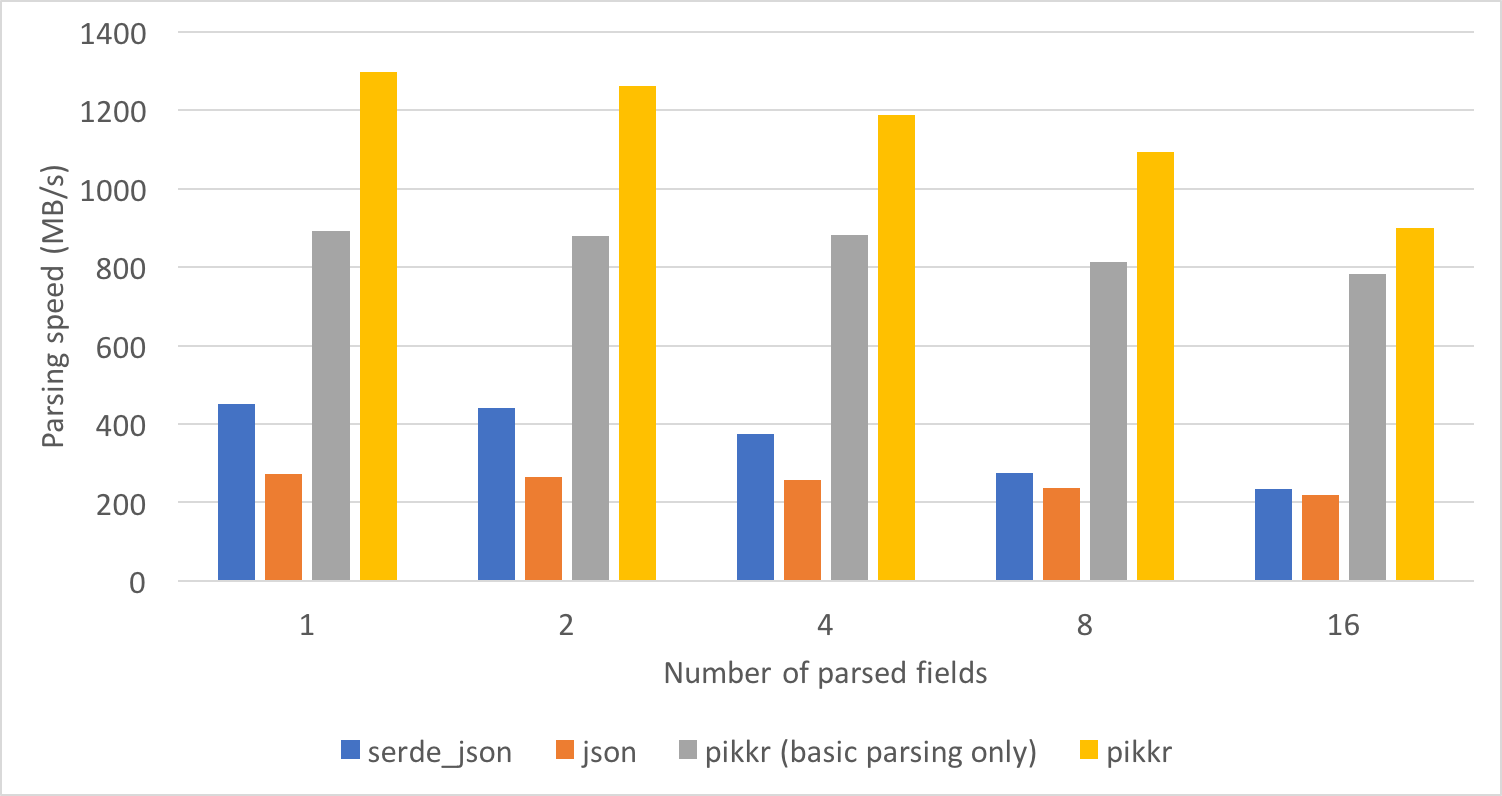
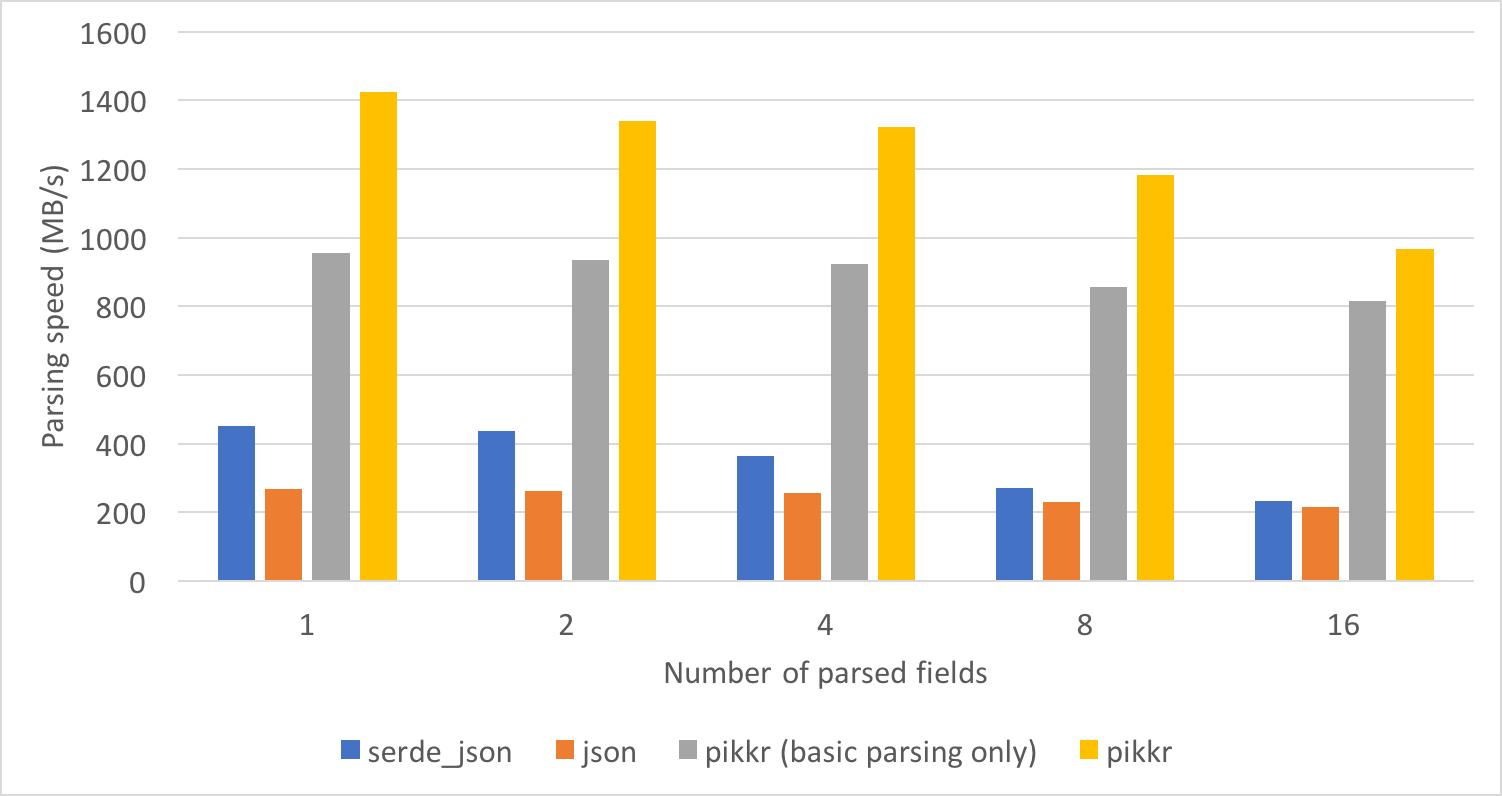
Update the benchmark result

diff --git a/README.md b/README.md
@@ -52,7 +52,7 @@ rustc 1.22.0-nightly (d93036a04 2017-09-07)
 
 * [serde_json](https://crates.io/crates/serde_json) 1.0.3
 * [json](https://crates.io/crates/json) 0.11.9
-* [pikkr](https://crates.io/crates/pikkr) 0.14.0
+* [pikkr](https://crates.io/crates/pikkr) 0.16.0
 
 ### JSON Data
 
